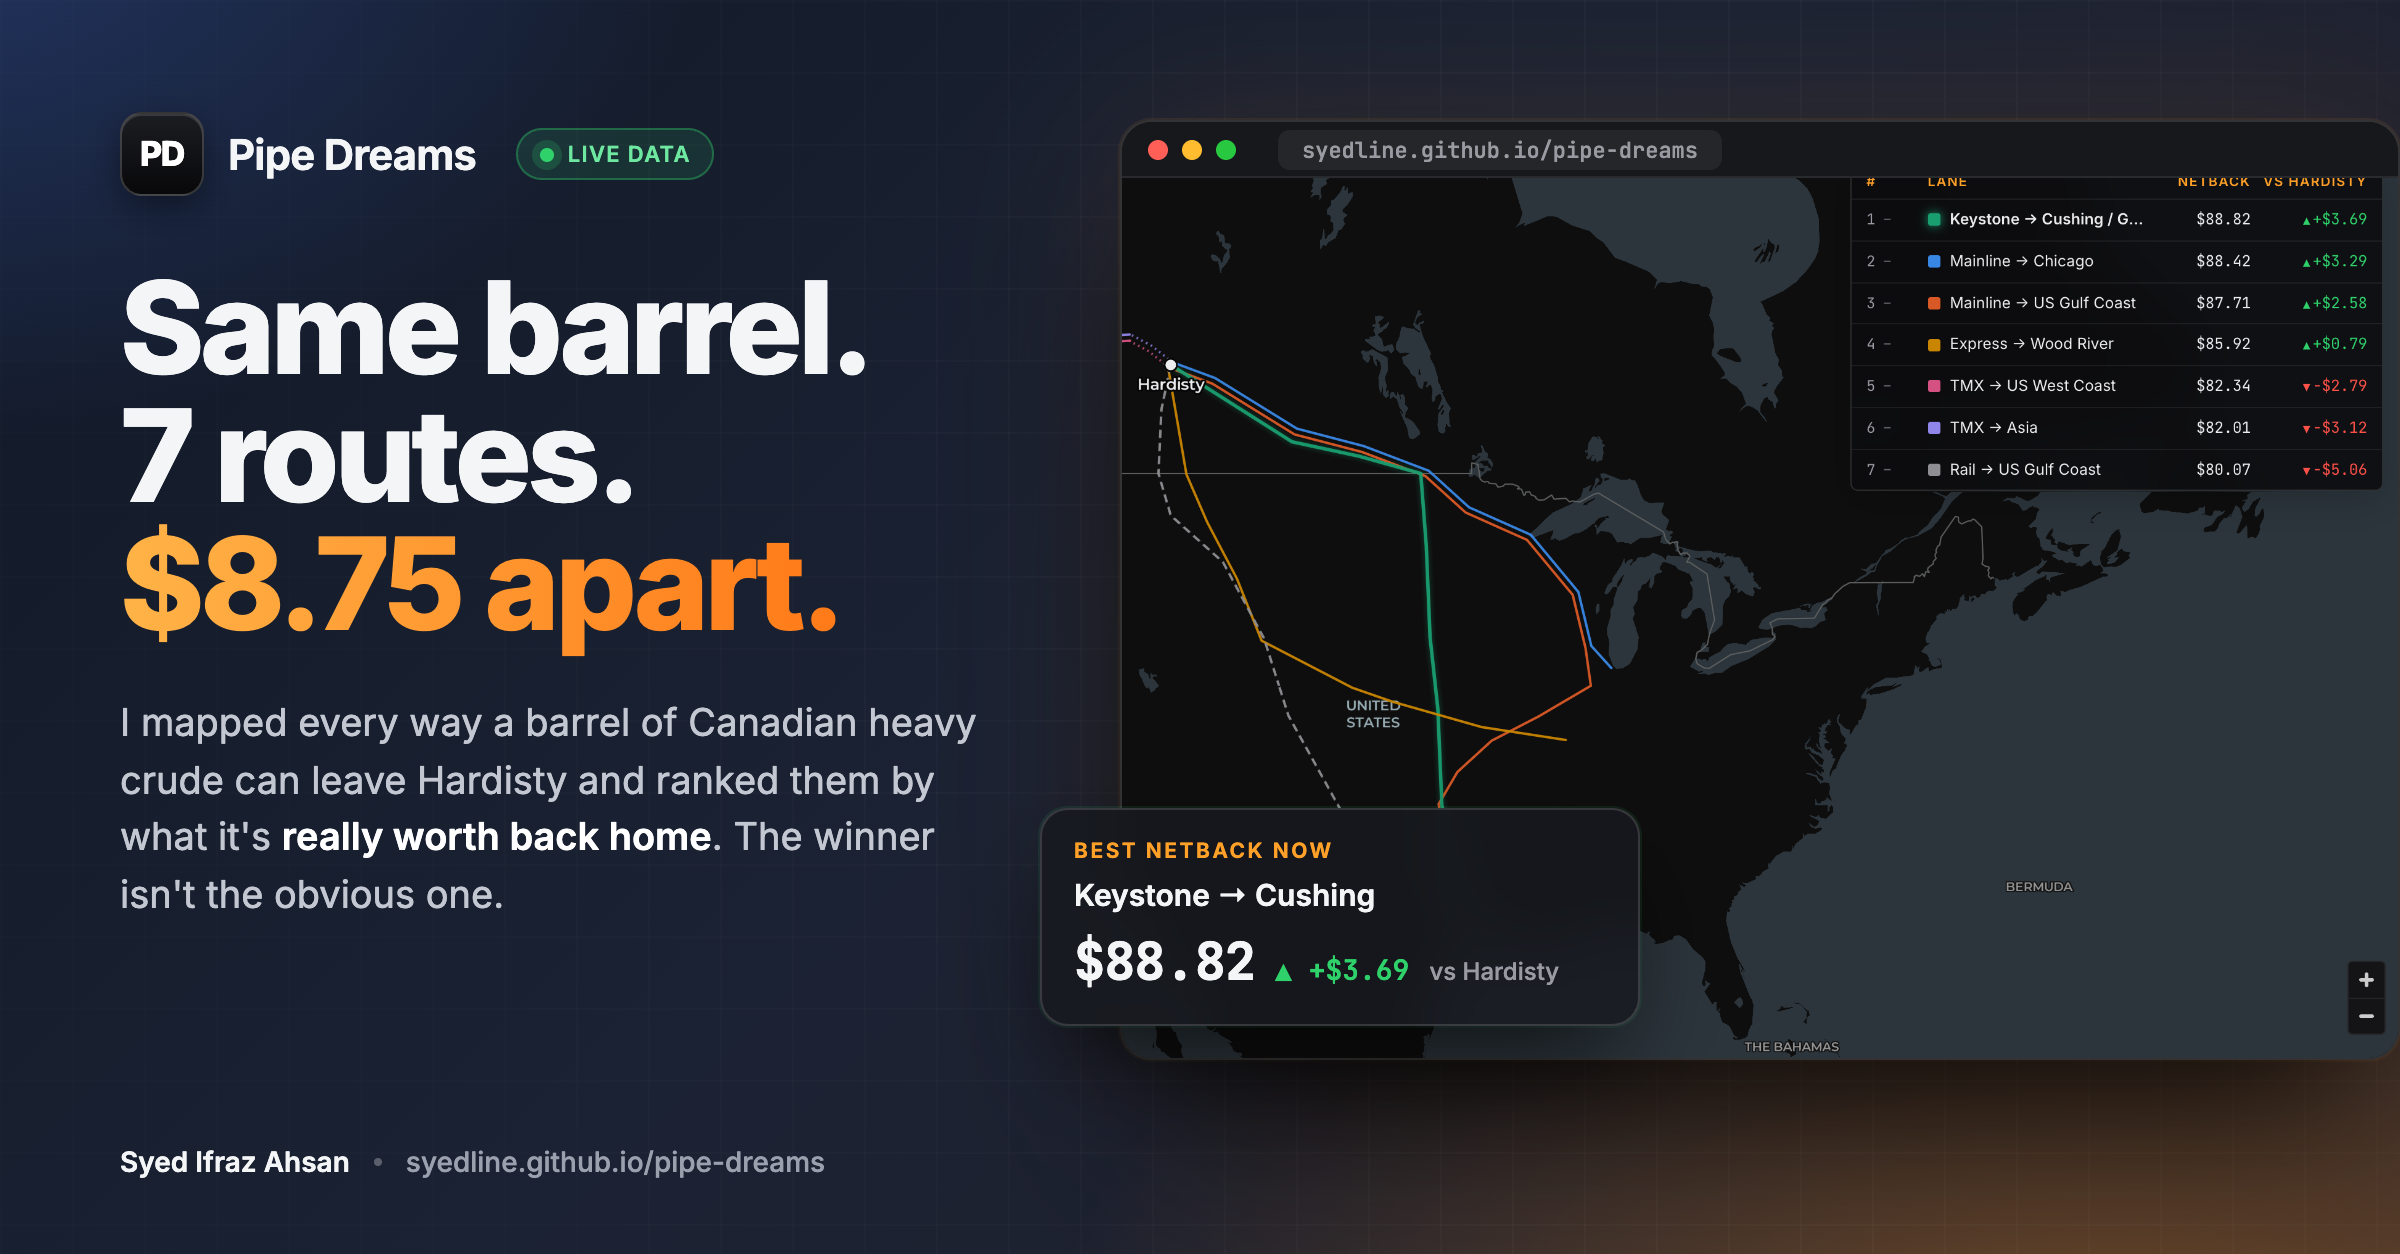
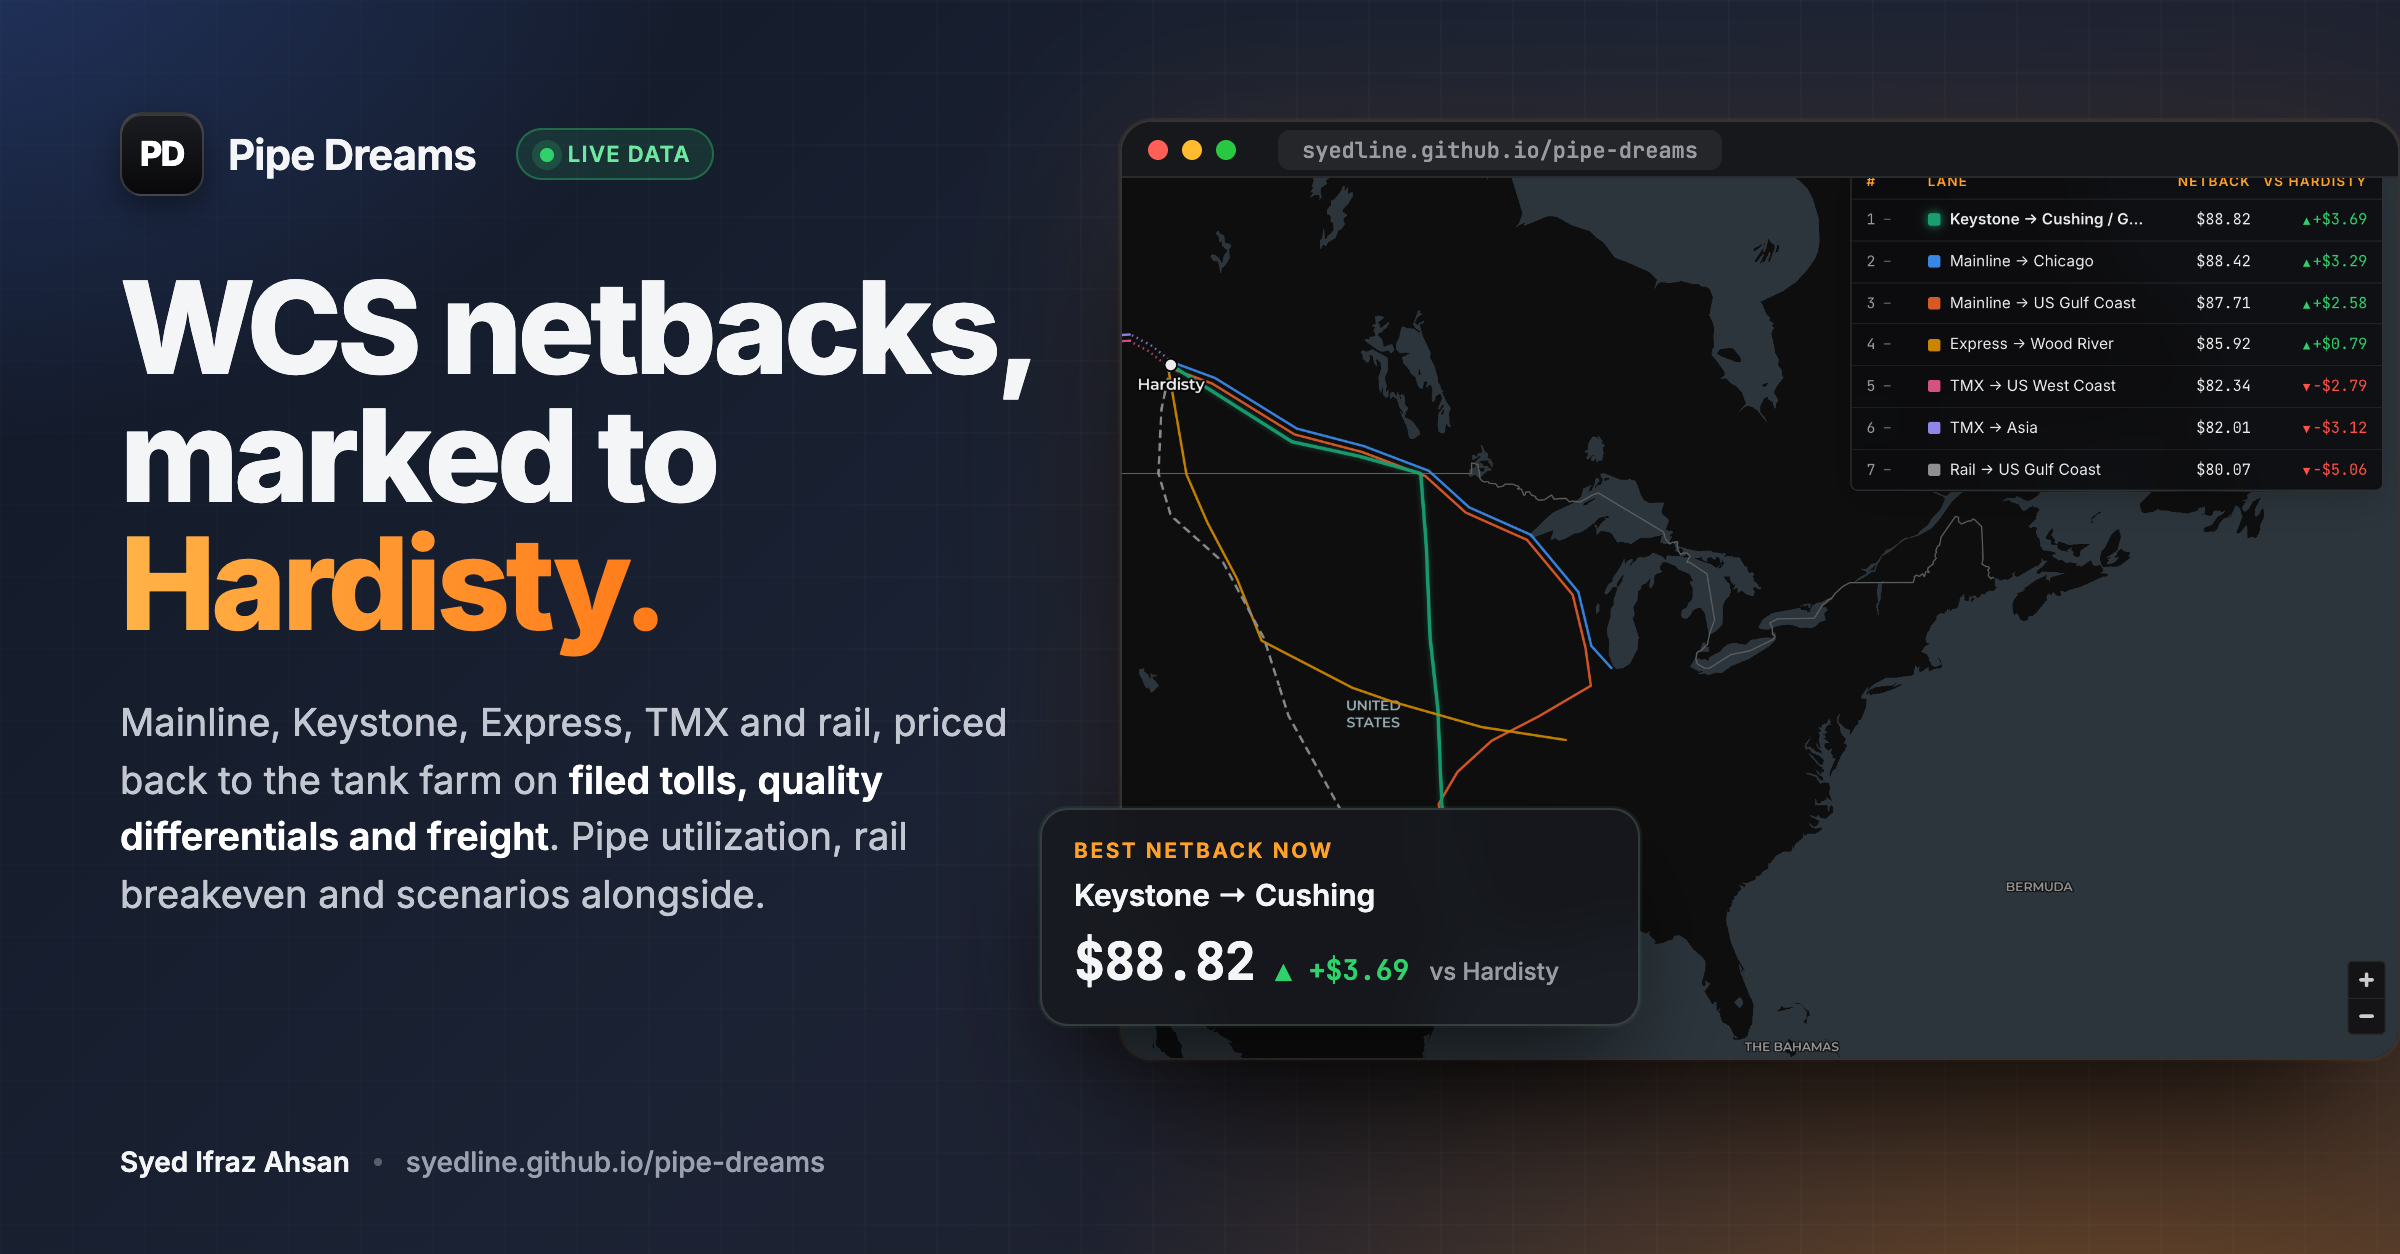
Thumbnail and link-preview copy aimed at traders

Changed region(s): [[0.0312, 0.2177, 0.4375, 0.5287], [0.0312, 0.5598, 0.4375, 0.7464]]

diff --git a/index.html b/index.html
@@ -11,8 +11,8 @@
     <!-- Link previews (LinkedIn, Slack, X…) -->
     <meta property="og:type" content="website" />
     <meta property="og:site_name" content="Pipe Dreams" />
-    <meta property="og:title" content="Pipe Dreams — where should a Hardisty barrel go this month?" />
-    <meta property="og:description" content="A live netback monitor for Western Canadian Select: seven egress lanes, filed tolls, tanker freight and pipeline utilization, all from public data." />
+    <meta property="og:title" content="Pipe Dreams — WCS netbacks, marked to Hardisty" />
+    <meta property="og:description" content="Mainline, Keystone, Express, TMX and rail, priced back to Hardisty on filed tolls, quality differentials and freight. Pipe utilization, rail breakeven and scenarios alongside." />
     <meta property="og:url" content="https://syedline.github.io/pipe-dreams/" />
     <meta property="og:image" content="https://syedline.github.io/pipe-dreams/og-image.png" />
     <meta property="og:image:width" content="1200" />
